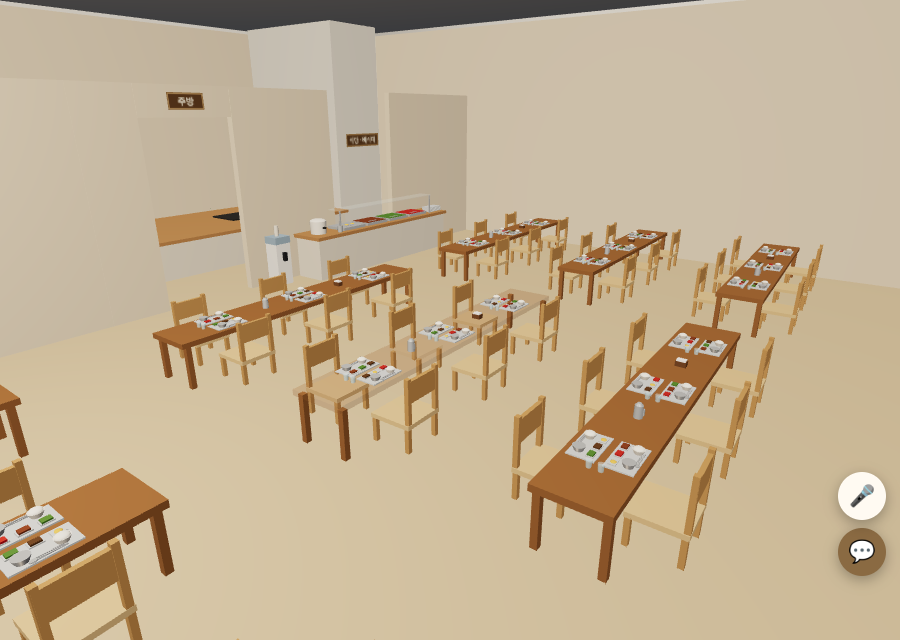
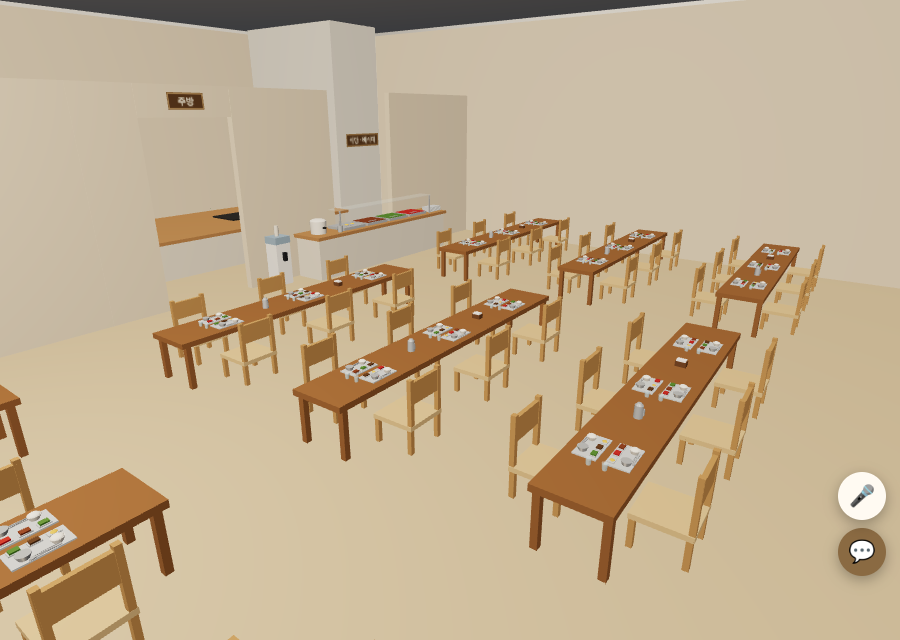
Keep low tables solid when the camera fades occluders; smaller trays set back from table edge
Claude-Session: https://claude.ai/code/session_01Vz1QJf3UdmpjXu7m5EnhFF

diff --git a/index.html b/index.html
@@ -553,6 +553,7 @@
       if (!o.geometry.boundingBox) o.geometry.computeBoundingBox();
       const bb = o.geometry.boundingBox.clone().applyMatrix4(o.matrixWorld);
       if (bb.max.y - bb.min.y < 0.35 && (bb.max.x - bb.min.x) * (bb.max.z - bb.min.z) > 6) return false;   // 바닥·천장 판은 제외
+      if (bb.max.y < currentFloorY + 0.45) return false;   // 식탁처럼 낮은 가구는 투명하게 하지 않음(위에 놓인 식판만 떠 보이던 문제)
       return true;
     }
     function camBeforeUpdate() {}
@@ -1053,24 +1054,24 @@
     const SOUPS = ['soup', 'doenjang', 'miyeok'], SIDES = ['kimchi', 'namul', 'egg', 'meat', 'bean'];
     // 한 사람 몫: side = 앉은 쪽(-1 서쪽 / +1 동쪽). 식판은 앉은 사람 앞, 물컵은 식탁 가운데 쪽
     function dinePlace(tx, z, side, n) {
-      const T = 0.38, ax = (d) => tx + side * d;
-      dBox(0.15, 0.008, 0.26, ax(0.095), T, z, dMat.tray);                         // 식판
-      dCyl(0.032, 0.022, 0.024, ax(0.125), T + 0.008, z - 0.07, dMat.bowl);         // 밥그릇 + 밥
-      dDome(0.029, ax(0.125), T + 0.03, z - 0.07, dMat.rice, 0.55);
-      dCyl(0.034, 0.024, 0.026, ax(0.125), T + 0.008, z + 0.07, dMat.steel);        // 국그릇 + 국
-      dCyl(0.03, 0.03, 0.002, ax(0.125), T + 0.028, z + 0.07, dMat[SOUPS[n % 3]]);
-      [-0.08, 0, 0.08].forEach((dz, i) => {                                         // 반찬 3칸
-        dBox(0.04, 0.006, 0.055, ax(0.055), T + 0.008, z + dz, dMat.tray);
+      const T = 0.38, ax = (d) => tx + side * d;                                   // 식판: 가운데 0.02 ~ 가장자리 쪽 0.145 (식탁 끝 0.2)
+      dBox(0.125, 0.008, 0.22, ax(0.0825), T, z, dMat.tray);                       // 식판
+      dCyl(0.026, 0.018, 0.02, ax(0.11), T + 0.008, z - 0.058, dMat.bowl);          // 밥그릇 + 밥
+      dDome(0.024, ax(0.11), T + 0.026, z - 0.058, dMat.rice, 0.55);
+      dCyl(0.028, 0.02, 0.022, ax(0.11), T + 0.008, z + 0.058, dMat.steel);         // 국그릇 + 국
+      dCyl(0.025, 0.025, 0.002, ax(0.11), T + 0.024, z + 0.058, dMat[SOUPS[n % 3]]);
+      [-0.068, 0, 0.068].forEach((dz, i) => {                                       // 반찬 3칸
+        dBox(0.034, 0.006, 0.048, ax(0.045), T + 0.008, z + dz, dMat.tray);
         const f = dMat[SIDES[(n + i * 2) % 5]];
-        if (SIDES[(n + i * 2) % 5] === 'egg') dDome(0.016, ax(0.055), T + 0.012, z + dz, f, 0.5);
-        else dBox(0.032, 0.01, 0.042, ax(0.055), T + 0.012, z + dz, f);
+        if (SIDES[(n + i * 2) % 5] === 'egg') dDome(0.014, ax(0.045), T + 0.012, z + dz, f, 0.5);
+        else dBox(0.027, 0.009, 0.036, ax(0.045), T + 0.012, z + dz, f);
       });
-      dBox(0.006, 0.004, 0.11, ax(0.158), T + 0.008, z - 0.02, dMat.steel);         // 숟가락 자루 + 머리
-      dPut(new THREE.CylinderGeometry(0.011, 0.011, 0.004, 10).scale(1, 1, 1.4), dMat.steel, ax(0.158), T + 0.012, z + 0.045);
-      dBox(0.003, 0.003, 0.12, ax(0.150), T + 0.008, z - 0.01, dMat.steel);        // 젓가락 한 쌍
-      dBox(0.003, 0.003, 0.12, ax(0.145), T + 0.008, z - 0.01, dMat.steel);
-      dCyl(0.017, 0.014, 0.042, ax(0.03), T, z + 0.17, dMat.cup);                   // 물컵 + 물
-      dCyl(0.015, 0.0135, 0.03, ax(0.03), T + 0.002, z + 0.17, dMat.water);
+      dBox(0.005, 0.004, 0.09, ax(0.138), T + 0.008, z - 0.015, dMat.steel);        // 숟가락 자루 + 머리
+      dPut(new THREE.CylinderGeometry(0.009, 0.009, 0.004, 10).scale(1, 1, 1.4), dMat.steel, ax(0.138), T + 0.012, z + 0.04);
+      dBox(0.003, 0.003, 0.1, ax(0.131), T + 0.008, z - 0.005, dMat.steel);        // 젓가락 한 쌍
+      dBox(0.003, 0.003, 0.1, ax(0.126), T + 0.008, z - 0.005, dMat.steel);
+      dCyl(0.015, 0.012, 0.038, ax(0.04), T, z + 0.15, dMat.cup);                   // 물컵 + 물
+      dCyl(0.013, 0.0115, 0.027, ax(0.04), T + 0.002, z + 0.15, dMat.water);
     }
     // 식탁 가운데: 냅킨 통 / 물병
     function dineCenter(tx, z, kind) {
@@ -1105,8 +1106,8 @@
       DINING_ROWS.forEach((tz) => {
         table(tx, tz, 2.6, 0.4);
         [-0.85, 0, 0.85].forEach((k) => {
-          chair(tx - 0.30, tz + k, +1);
-          chair(tx + 0.30, tz + k, -1);
+          chair(tx - 0.32, tz + k, +1);                    // 식탁 가장자리에서 조금 띄움(의자가 식판 아래로 파고들어 보이지 않게)
+          chair(tx + 0.32, tz + k, -1);
           [-1, 1].forEach((side) => dinePlace(tx, tz + k, side, ++dineSeed));
         });
         dineCenter(tx, tz - 0.42, 0); dineCenter(tx, tz + 0.42, 1);

diff --git a/docs/verification/2026-11-05/REPORT.md b/docs/verification/2026-11-05/REPORT.md
@@ -310,3 +310,8 @@
 - 배식대: 식판 더미, 반찬통 4개와 집게, 유리 가림막, 밥솥, 수저통. 배식대 옆에 정수기.
 - 소품은 재질별로 식탁마다 한 덩어리로 합쳤고, 누르기·걷기·카메라 판정에서는 빠짐.
 - 검사: `tools/walk-check/dine.cjs after` → 오류 없음. 식당 의자 앉아 밥먹기 4곳 정상. 스크린샷 `after-room/table/counter/pray.png`.
+
+## 식당 의자가 반찬 위에 겹쳐 보이던 문제
+- 원인: 카메라와 캐릭터 사이에 있는 식탁이 벽처럼 투명해짐 → 식판만 떠서 의자 위에 놓인 것처럼 보였음.
+- 고침: 바닥에서 45cm보다 낮은 가구(식탁 등)는 투명하게 하지 않음. 식판을 조금 작게 해 식탁 가운데 쪽으로 옮기고, 의자를 식탁에서 2cm 더 띄움.
+- 검사: 식탁 건너편 낮은 카메라(`dine-across.png`), 위쪽 카메라(`after-table.png`) 모두 식탁이 그대로 보임. 밥먹기 4곳 정상, 오류 없음.
